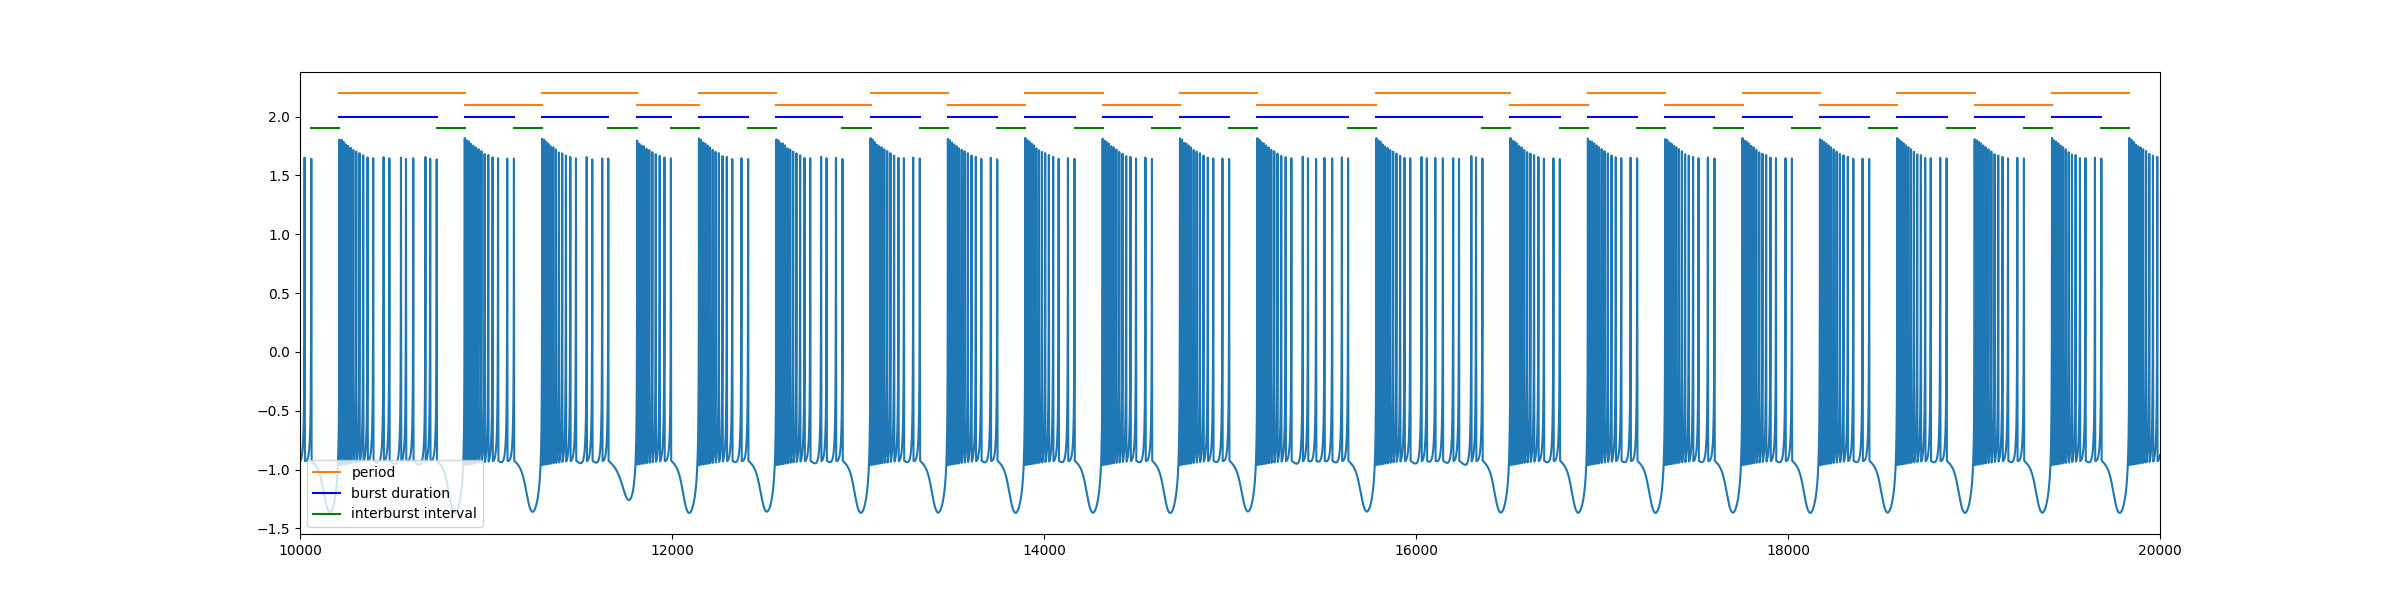
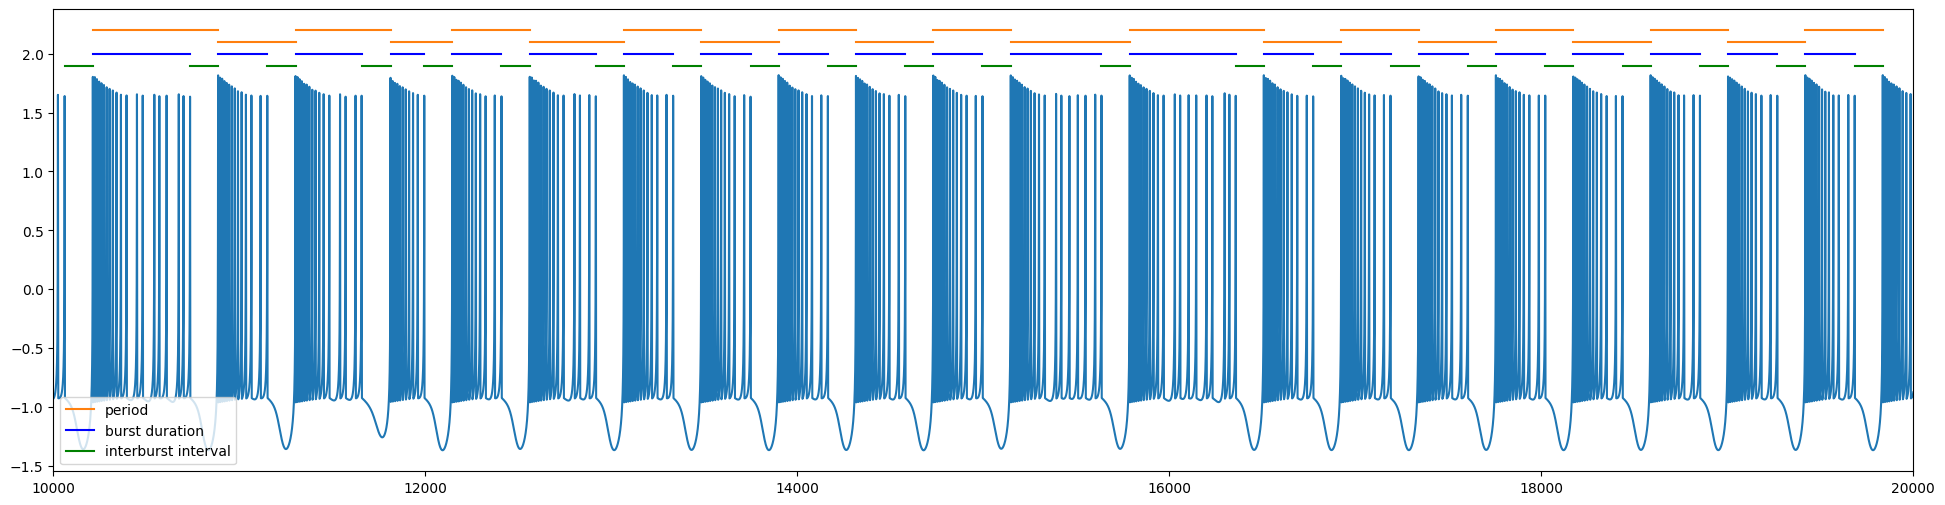
needed to finish the markdown fro intervals comparison

diff --git a/scripts/all_points_detection.py b/scripts/all_points_detection.py
@@ -61,7 +61,7 @@ def detect_points(data:np.ndarray, tol:int)->tuple:
     return (firsts_location, lasts_location)
 
 name_dir = "./data/executions_HR/c/"
-name_file = "HR_chaotic_continue_c.csv"
+name_file = "HR_regular_continue_c.csv"
 time_end = 12500
 
 if __name__=="__main__":
@@ -97,14 +97,14 @@ if __name__=="__main__":
     list_t = df['time'].to_list()
     plt.xlim([ min(list_t), max(list_t)])
 
-    plt.savefig("graphs/executions_DP/"+name+ '.png')
+    plt.savefig("graphs/executions_DP/"+name+ '.png', bbox_inches='tight')
 
     plt.plot( [list_t[i] for i in firsts_location]  , [list_x[i] for i in firsts_location] , marker='.', ls='none', ms=10, color='r')
     plt.plot( [list_t[i] for i in lasts_location]  , [list_x[i] for i in lasts_location] , marker='.', ls='none', ms=10, color='g')
 
     
 
-    plt.savefig("graphs/executions_DP/"+name+ '_pointed.png')
+    plt.savefig("graphs/executions_DP/"+name+ '_pointed.png', bbox_inches='tight')
     plt.close()
 
     df_values = pd.DataFrame()
@@ -352,5 +352,8 @@ if __name__=="__main__":
 
     plt.legend(loc='lower left',handles=[period_lines[0], burst_lines[0], interburst_lines[0]], labels=['period', 'burst duration', 'interburst interval'])
 
-    plt.savefig("graphs/executions_DP/"+name+ '_lines.png')
+    plt.savefig("graphs/executions_DP/"+name+ '_lines.png', bbox_inches='tight')
     plt.close()
+
+
+    plt.figure(figsize =(10, 7))

diff --git a/docs/markdown/spike_analysis.md b/docs/markdown/spike_analysis.md
@@ -4,8 +4,18 @@ By Sergio Hidalgo
 
 ## Index
   - [Introduction](#introduction)
-  - [Graphs](#graphs)
+  - [Old model](#old-model)
+    - [Old model](#old-model)
 
 ## Introduction
 This document shows a provisional algorithm to analyize the nature of the spikes in a model, the model used in this case is the Hindmarsh-Rose model, with the base parámeters.
 
+## Old model
+
+Chaotic simulation first spike and last spike detection      |
+:-------------------------:|
+![Chaotic simulation first spike and last spike detection](images/spike_analysis/old_hr/HR_chaotic_continue_c_pointed.png "Chaotic simulation first spike and last spike detection") |
+
+Chaotic simulation intervals      |
+:-------------------------:|
+![Chaotic simulation intervals](images/spike_analysis/old_hr/HR_chaotic_continue_c_lines.png "Chaotic simulation intervals") |
